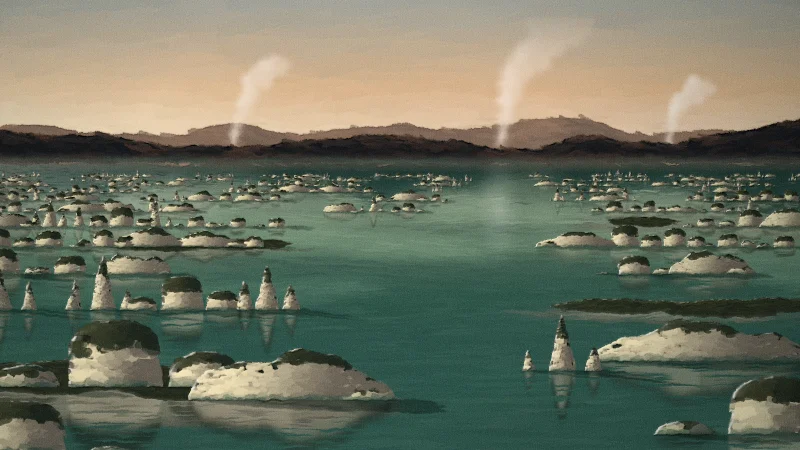
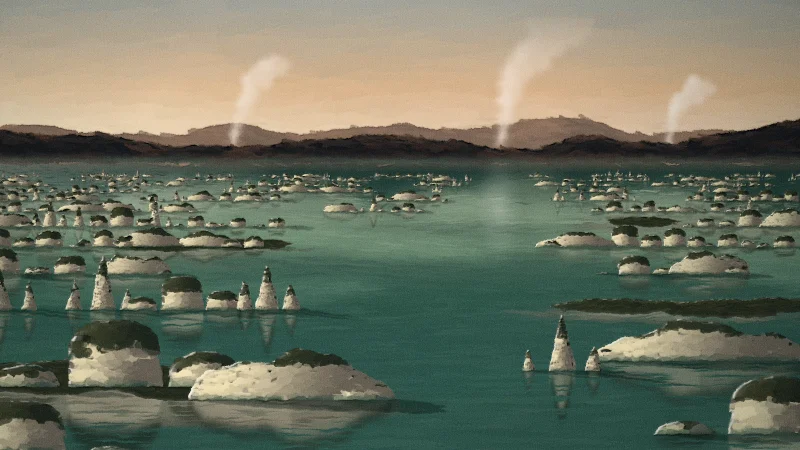
Stromatolite texts claim no more than the dossier
The source describes low cones; the texts no longer call the cones steep or
the reef the oldest known, and the caveats say the drawn cones' height is the
drawing's own. Conophyton matches the domes again as well as the cones. The
new parts' widths now cover their full reach; earliest-life repainted.

diff --git a/src/scenes/whitelist/marine-early-paleozoic.ts b/src/scenes/whitelist/marine-early-paleozoic.ts
@@ -15,7 +15,7 @@ export const CAVEATS: PartCaveat[] = [
   { parts: ['crinoid'], text: 'Sea lilies (crinoids) are shown in shallow seas from the Ordovician to the Jurassic. Later stalked crinoids are mostly deep-water animals.' },
   { parts: ['stromatolite'], text: 'Stromatolites are shown as a matter of course in Precambrian and Cambrian scenes only. They persisted after that in restricted settings and are still alive today, so in Ordovician and Silurian scenes they are drawn where their fossils are recorded near the place, and nowhere else. They also appear in the painting of the Lau event of the Silurian, whose rocks are known for them. After the Silurian they are not shown at all, which leaves out the places where they lived on.' },
   { parts: ['stromatolite', 'stromatolite-cone', 'stromatolite-wavy'], text: 'Stromatolites can appear in lakes, on shorelines and in open shelf seas as well as in warm shallow seas and reefs. Lake stromatolites are well known from the Precambrian, but in open shelf seas stromatolites were less common than in warm shallow seas.' },
-  { parts: ['stromatolite', 'stromatolite-cone', 'stromatolite-wavy'], text: 'Stromatolites are drawn in three shapes: rounded domes, steep cones, and low mounds with wavy layers. All three are found together in the oldest known stromatolite reef, in Western Australia, which had seven kinds in all. The cones and wavy mounds are shown in Precambrian scenes only, a simplification; the domes are shown later too. Which shape stands where in a picture is the painter\'s choice, and the sizes are not to scale.' },
+  { parts: ['stromatolite', 'stromatolite-cone', 'stromatolite-wavy'], text: 'Stromatolites are drawn in three shapes: rounded domes, cones, and low mounds with wavy layers. All three are found together in a stromatolite reef in Western Australia that is about 3.43 billion years old and had seven kinds in all. There the cones are described as low; the height and steepness of the drawn cones are the drawing\'s own. The cones and wavy mounds are shown in Precambrian scenes only, a simplification; the domes are shown later too. Which shape stands where in a picture is the painter\'s choice, and the sizes are not to scale.' },
   { parts: ['trilobite', 'spinytrilobite'], text: 'Trilobites (both the plain and the spiny drawing) can appear in delta scenes, because their trails are common in tidal and delta-front sandstones. They were strictly sea animals, though, and never lived in the fresh or brackish (slightly salty) parts of a delta.' },
   { parts: ['trilobite'], text: 'The plain trilobite can appear in all four kinds of open-sea scene up to the Permian. After the Devonian only one order of trilobites survived, mostly in shallow shelf seas and reefs, so a Carboniferous or Permian deep-sea trilobite is doubtful.' },
   { parts: ['brachiopod'], text: 'Brachiopods are shown up to the Late Cretaceous. They are still alive today, but after the Permian they were far less common, and the ribbed shells drawn here best fit Paleozoic and Jurassic kinds.' },
@@ -54,7 +54,7 @@ export const PERMITS: Permit[] = [
     scenes: ['carbonate-sea', 'reef', 'shoreline', 'shelf-sea', 'lake'],
     chapters: span('Precambrian', 'Silurian'),
     localOnlyIn: ['Ordovician', 'Silurian'],
-    matches: ['Stromatolite', 'Collenia', 'Cryptozoon', 'Baicalia'],
+    matches: ['Stromatolite', 'Conophyton', 'Collenia', 'Cryptozoon', 'Baicalia'],
     basis: 'Layered mounds built by microbes; the main shallow-water builders before animals.',
   },
   {
@@ -64,7 +64,7 @@ export const PERMITS: Permit[] = [
     scenes: ['carbonate-sea', 'reef', 'shoreline', 'shelf-sea', 'lake'],
     chapters: ['Precambrian'],
     matches: ['Conophyton'],
-    basis: 'Steep cones built by microbes, among the forms of the oldest known stromatolite reef, the Strelley Pool Formation of Western Australia, 3.43 billion years old (Allwood and others, 2006).',
+    basis: 'Cones built by microbes, among the forms of the Strelley Pool reef of Western Australia, 3.43 billion years old (Allwood and others, 2006).',
   },
   {
     id: 'stromatolite-wavy',

diff --git a/src/match/turning-points-precambrian-text.ts b/src/match/turning-points-precambrian-text.ts
@@ -85,9 +85,9 @@ export const TEXT: Record<string, EventText> = {
       'Allwood, A.C. et al. (2018) Reassessing evidence of life in 3,700-million-year-old rocks of Greenland. Nature 563, 241-244.',
       'Baumgartner, R.J. et al. (2019) Nano-porous pyrite and organic matter in 3.5-billion-year-old stromatolites record primordial life. Geology 47, 1039-1043.',
     ],
-    picture: "A painting. Ranks of pale cream stromatolites, mounds built by microbes and capped with dark living mat, some rounded domes, some steep cones and some low and wavy, stand in shallow clear green water at low tide, each with its reflection, and patches of dark microbial mat lie on the wet flats between them. Behind them is a bare black and rust-brown volcanic shore with low hills, where three columns of white steam rise from hot springs into a hazy, pale orange morning sky.",
+    picture: "A painting. Ranks of pale cream stromatolites, mounds built by microbes and capped with dark living mat, some rounded domes, some cones and some low and wavy, stand in shallow clear green water at low tide, each with its reflection, and patches of dark microbial mat lie on the wet flats between them. Behind them is a bare black and rust-brown volcanic shore with low hills, where three columns of white steam rise from hot springs into a hazy, pale orange morning sky.",
     pictureCaveats: [
-      "The mounds are drawn in three shapes, rounded domes, steep cones and low wavy mounds, all found in the real reef, which had seven kinds. How the shapes are mixed, the size of the mounds and their regular ranks are the painter's.",
+      "The mounds are drawn in three shapes, rounded domes, cones and low wavy mounds, all found in the real reef, which had seven kinds. The real cones are described as low; the height and steepness of the painted ones, how the shapes are mixed, the size of the mounds and their regular ranks are the painter's.",
       "The dark color of the living mat and the clear green of the water are convention. Neither is known.",
       "The steam is borrowed. The hot-spring deposits are in the Dresser Formation, about 50 million years older than the reef shown.",
       "The orange haze and the look of the bare shore are assumptions. In air without free oxygen, methane can build a haze of hydrocarbons, as it does on Saturn's moon Titan, but the rocks record such a haze only between about 2.7 and 2.5 billion years ago, long after this reef. What color the sky was at this time is not known.",

diff --git a/src/scenes/parts/stromatolite-forms.ts b/src/scenes/parts/stromatolite-forms.ts
@@ -1,6 +1,6 @@
 // Drawings: two more shapes of stromatolite, for Precambrian scenes, beside the domes of `stromatolite`
-// (./marine-early-paleozoic.ts): a cluster of steep cones, and a low mound with a wavy, layered top. Domes,
-// cones and wavy-layered mounds are among the forms found together in the oldest known stromatolite reef.
+// (./marine-early-paleozoic.ts): a cluster of cones, and a low mound with a wavy, layered top. Cones, domes
+// and wavy-laminated mounds are among the forms of the 3.43-billion-year-old Strelley Pool reef (Allwood et al. 2006).
 // The matching whitelist entries are in ../whitelist/marine-early-paleozoic.ts.
 
 import { type Rng, n, path, line } from '../draw';
@@ -70,7 +70,8 @@ export function wavyShape(rng: Rng): StromBody[] {
   const main = mound(rng.range(-6, 6), rng.range(40, 47), rng.range(24, 32));
   if (!rng.chance(0.6)) return [main];
   const side = rng.chance(0.5) ? 1 : -1;
-  return [main, mound(main.x + side * rng.range(32, 40), rng.range(14, 19), rng.range(10, 14))];
+  // Kept within the part's width: at most 6 + 34 + 17 = 57 from the middle.
+  return [main, mound(main.x + side * rng.range(28, 34), rng.range(13, 17), rng.range(10, 14))];
 }
 
 /** The outline of a body as path data, from its left foot over its top to its right foot. */
@@ -144,6 +145,7 @@ function wavy(c: PartCtx): string {
 }
 
 export const PARTS: Record<string, PartDef> = {
-  'stromatolite-cone': { role: 'mound', w: 90, h: 62, anchor: 'base', draw: cones },
-  'stromatolite-wavy': { role: 'mound', w: 100, h: 40, anchor: 'base', draw: wavy },
+  // Widths are the full reach of the shapes: cones to 8 + 36 + 13 = 57 from the middle, wavy mounds to 57.
+  'stromatolite-cone': { role: 'mound', w: 114, h: 62, anchor: 'base', draw: cones },
+  'stromatolite-wavy': { role: 'mound', w: 114, h: 34, anchor: 'base', draw: wavy },
 };

diff --git a/tools/extinctions/scenes/earliest-life.ts b/tools/extinctions/scenes/earliest-life.ts
@@ -286,7 +286,7 @@ export function paint(): string {
   rows.push([{ x: 580, y: 800, s: 4.8, flip: false, pale: 0.98, sink: 14 }]);
   rows.push([{ x: 1556, y: 868, s: 6.4, flip: true, pale: 0.97, sink: 13 }]);
   rows.push([{ x: 30, y: 906, s: 6.6, flip: false, pale: 0.95, sink: 15 }]);
-  // Three shapes, as in the Strelley Pool reef: domes, steep cones and low wavy mounds. The far ranks mix them by
+  // Three shapes, as in the Strelley Pool reef: domes, cones and low wavy mounds. The far ranks mix them by
   // chance; the six near ones are chosen by hand, with the tall cones kept to the middle sizes.
   const fr = p.sub('forms');
   for (const row of rows.slice(0, -6)) {
